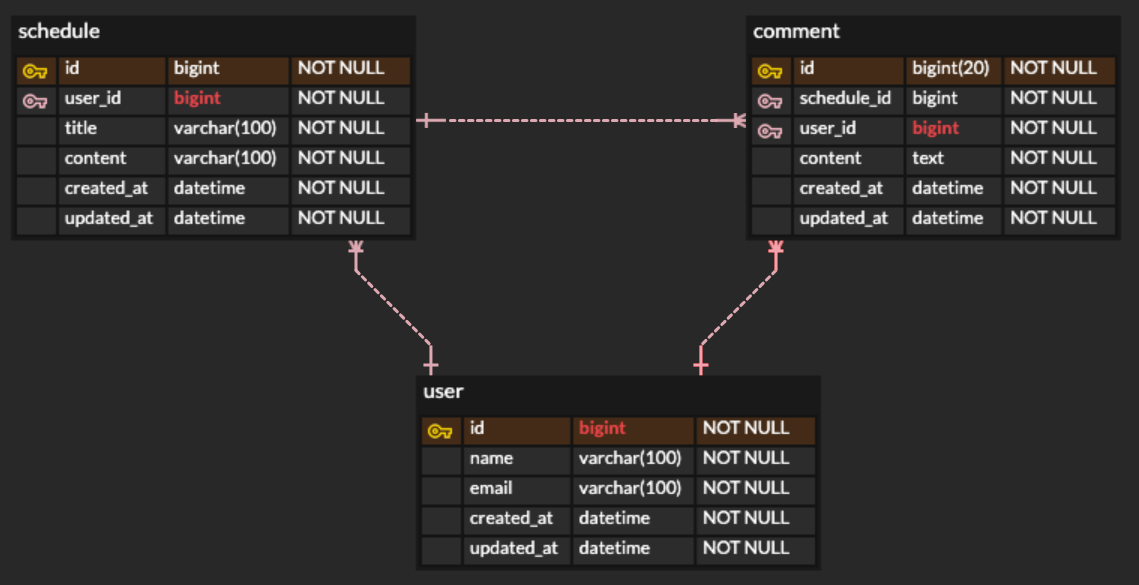
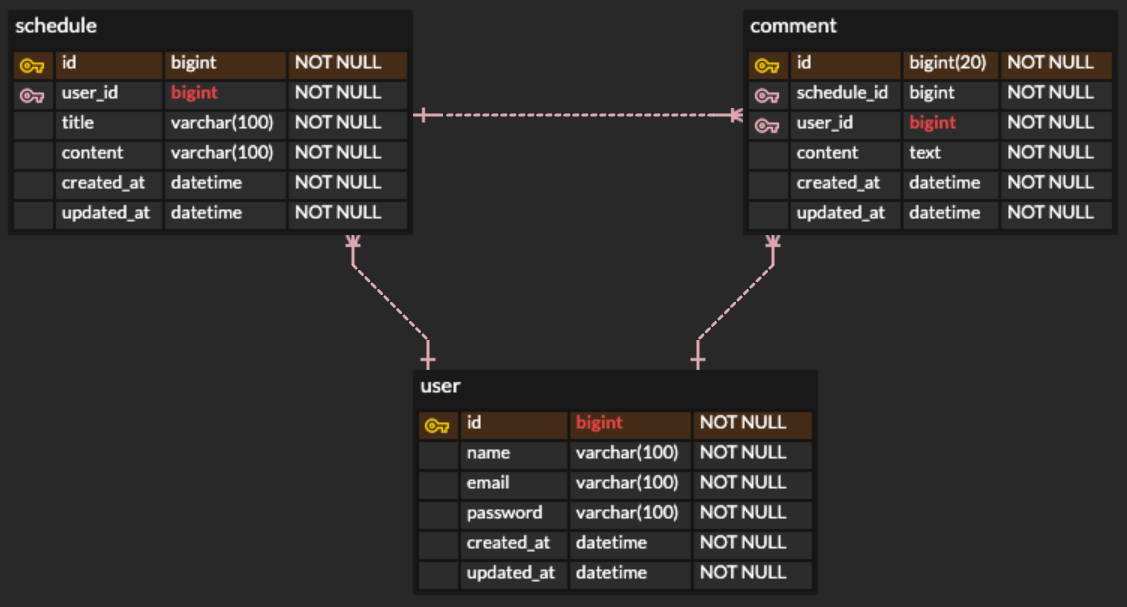
docs: API 명세 추가 및 ERD 업데이트

Changed region(s): [[0.0, 0.0308, 0.9938, 0.9538], [0.5901, 0.5846, 0.6211, 0.6462]]

diff --git a/README.md b/README.md
@@ -1,7 +1,145 @@
 
-## Architecture
-### ERD
+# Architecture
+## ERD
 [ERD Cloud Snapshot JSON](./erd-snapshot.json)
 
 ![img.png](img.png)
 
+## API Spec
+
+### 일정 목록 조회
+
+| 항목              | 내용               |
+| --------------- | ---------------- |
+| Method          | `GET`            |
+| URL             | `/schedules`     |
+| 설명              | 전체 일정 목록을 조회합니다. |
+| Request         | 없음               |
+| Response Status | `200 OK`         |
+
+#### Response
+
+```json
+[
+  {
+    "content": "string",
+    "createdBy": "string",
+    "title": "string",
+    "createdAt": "2013-08-13T01:53:32.467Z",
+    "updatedAt": "2012-11-20T23:02:58.020Z",
+    "comments": [
+      {
+        "content": "string",
+        "createdBy": "string",
+        "createdAt": "2026-03-27T08:38:52.241Z",
+        "updatedAt": "2016-06-02T04:22:53.281Z"
+      }
+    ]
+  }
+]
+```
+
+---
+
+### 일정 생성
+
+| 항목              | 내용             |
+| --------------- | -------------- |
+| Method          | `POST`         |
+| URL             | `/schedules`   |
+| 설명              | 새로운 일정을 생성합니다. |
+| Request         | 명세 없음          |
+| Response Status | `201 Created`  |
+
+#### Response
+
+```json
+{
+  "id": "할일 id",
+  "title": "할일 제목",
+  "content": "할일 내용"
+}
+```
+
+---
+
+### 일정 단건 조회
+
+| 항목              | 내용                |
+| --------------- | ----------------- |
+| Method          | `GET`             |
+| URL             | `/schedules/{id}` |
+| 설명              | 특정 일정 하나를 조회합니다.  |
+| Path Variable   | `id`              |
+| Request         | 없음                |
+| Response Status | `200 OK`          |
+
+#### Parameters
+
+| 이름   | 위치   | 필수 여부 | 타입     | 설명        |
+| ---- | ---- | ----- | ------ | --------- |
+| `id` | path | 필수    | string | 조회할 일정 ID |
+
+#### Response
+
+```json
+{
+  "id": 1,
+  "title": "본문 제목",
+  "content": "본문 내용"
+}
+```
+
+---
+
+### 일정 수정
+
+| 항목              | 내용                |
+| --------------- | ----------------- |
+| Method          | `PUT`             |
+| URL             | `/schedules/{id}` |
+| 설명              | 특정 일정을 수정합니다.     |
+| Path Variable   | `id`              |
+| Request         | 명세 없음             |
+| Response Status | `200 OK`          |
+
+#### Parameters
+
+| 이름   | 위치   | 필수 여부 | 타입     | 설명        |
+| ---- | ---- | ----- | ------ | --------- |
+| `id` | path | 필수    | string | 수정할 일정 ID |
+
+#### Response
+
+```json
+{
+  "id": 1,
+  "title": "본문 제목",
+  "content": "본문 내용"
+}
+```
+
+---
+
+### 일정 삭제
+
+| 항목              | 내용                |
+| --------------- | ----------------- |
+| Method          | `DELETE`          |
+| URL             | `/schedules/{id}` |
+| 설명              | 특정 일정을 삭제합니다.     |
+| Path Variable   | `id`              |
+| Request         | 없음                |
+| Response Status | `204 No Content`  |
+
+#### Parameters
+
+| 이름   | 위치   | 필수 여부 | 타입     | 설명        |
+| ---- | ---- | ----- | ------ | --------- |
+| `id` | path | 필수    | string | 삭제할 일정 ID |
+
+#### Response
+
+```text
+No Content
+```

diff --git a/TODO.md b/TODO.md
@@ -1,0 +1,123 @@
+
+### Lv 0. API 명세 및 ERD 작성   `필수`
+
+- [ ]  **API 명세서 작성하기**
+    - [ ]  API명세서는 프로젝트 root(최상위) 경로의 `README.md` 에 작성
+    - 참고) API 명세서 작성 가이드
+        - API 명세서란 API명, 요청 값(파라미터), 반환 값, 인증/인가 방식, 데이터 및 전달 형식 등 API를 정확하게 호출하고 그 결과를 명확하게 해석하는데 필요한 정보들을 일관된 형식으로 기술한 것을 의미합니다.
+        - request 및 response는 json(링크) 형태로 작성합니다.
+
+      [예) [서점] 책 API 설계하기](https://app.notion.com/e612dc3ef51483c29c3781125bebb679?pvs=21)
+
+        - 예시
+
+          !image.png
+
+
+        > API 명세서 추천 무료 Tool
+        > 
+        > 
+        > Document your APIs in Postman | Postman Learning Center
+        > 
+
+
+### Lv 1. 일정 CRUD  `필수`
+
+- [ ]  일정을 생성, 전체 조회, 단건 조회, 수정, 삭제할 수 있습니다.
+- [ ]  일정은 아래 필드를 가집니다.
+    - [ ]  `작성 유저명`, `할일 제목`, `할일 내용`, `작성일`, `수정일` 필드
+    - [ ]  `작성일`, `수정일` 필드는 `JPA Auditing`을 활용합니다.
+
+
+### Lv 2. 유저 CRUD  `필수`
+
+- [ ]  유저를 생성, 전체 조회, 단건 조회, 수정, 삭제할 수 있습니다.
+- [ ]  유저는 아래와 같은 필드를 가집니다.
+    - [ ]  `유저명`, `이메일`, `작성일`, `수정일` 필드
+    - [ ]  `작성일`, `수정일` 필드는 `JPA Auditing`을 활용합니다.
+- [ ]  연관관계 구현
+    - [ ]  일정은 이제 `작성 유저명` 필드 대신 `유저 고유 식별자` 필드를 가집니다.
+
+
+### Lv 3. 회원가입  `필수`
+
+- [ ]  유저에 `비밀번호` 필드를 추가합니다.
+    - 비밀번호는 8글자 이상이어야합니다.
+    - 비밀번호 암호화는 도전 기능에서 수행합니다.
+
+
+### Lv 4. 로그인(인증)  `필수`
+
+- [ ]  **설명**
+    - [ ]  **Cookie/Session**을 활용해 로그인 기능을 구현합니다.
+- [ ]  **조건**
+    - [ ]  `이메일`과 `비밀번호`를 활용해 로그인 기능을 구현합니다.
+    - [ ]  필요한 API들에서 세션을 활용합니다.
+
+---
+
+## 3️⃣ 도전 기능 가이드
+
+### Lv 5. 다양한 예외처리  `도전`
+
+- [ ]  Validation을 활용해 다양한 예외처리를 적용합니다.
+    - [ ]  @RestControllerAdvice를 활용하여 validation 에러 상황을 클라이언트에게 전달합니다.
+- [ ]  정해진 예외처리 항목이 있는 것이 아닌 프로젝트를 분석하고 예외사항을 지정해 봅니다.
+    - [ ]  Ex) 할일 제목은 10글자 이내, 유저명은 4글자 이내
+
+### Lv 6. 비밀번호 암호화  `도전`
+
+- [ ]  Lv.3에서 추가한 `비밀번호` 필드에 들어가는 비밀번호를 암호화합니다.
+    - [ ]  암호화를 위한 `PasswordEncoder`를 직접 만들어 사용합니다.
+        - PasswordEncoder 참고 코드
+            1. `build.gradle` 에 아래의 의존성을 추가해주세요.
+
+                ```java
+                implementation 'at.favre.lib:bcrypt:0.10.2'
+                ```
+
+            2. `config` 패키지가 없다면 추가하고, 아래의 클래스를 추가해주세요.
+
+                ```java
+                import at.favre.lib.crypto.bcrypt.BCrypt;
+                import org.springframework.stereotype.Component;
+                
+                @Component
+                public class PasswordEncoder {
+                
+                    public String encode(String rawPassword) {
+                        return BCrypt.withDefaults().hashToString(BCrypt.MIN_COST, rawPassword.toCharArray());
+                    }
+                
+                    public boolean matches(String rawPassword, String encodedPassword) {
+                        BCrypt.Result result = BCrypt.verifyer().verify(rawPassword.toCharArray(), encodedPassword);
+                        return result.verified;
+                    }
+                }
+                ```
+
+
+
+### Lv 7. 댓글 CRUD  `도전`
+
+- [ ]  생성한 일정에 댓글을 남길 수 있습니다.
+    - [ ]  댓글과 일정은 연관 관계를 가집니다. →  `3주차 연관관계 매핑 참고!`
+- [ ]  댓글을 저장, 전체 조회할 수 있습니다.
+- [ ]  댓글은 아래와 같은 필드를 가집니다.
+    - [ ]  `댓글 내용`, `작성일`, `수정일`, `유저 고유 식별자`, `일정 고유 식별자` 필드
+    - [ ]  `작성일`, `수정일` 필드는 `JPA Auditing`을 활용하여 적용합니다.
+
+
+### Lv 8. 일정 페이징 조회  `도전`
+
+- 키워드
+    - **데이터베이스**
+        - offset / limit : SELECT 쿼리에 적용해서 데이터를 제한 범위에 맞게 조회할 수 있습니다.
+    - **페이징**
+        - Pageable : Spring Data JPA에서 제공되는 페이징 관련 인터페이스입니다.
+        - PageRequest : Spring Data JPA에서 제공되는 페이지 요청 관련 클래스입니다.
+- [ ]  일정을 Spring Data JPA의 `Pageable`과 `Page` 인터페이스를 활용하여 페이지네이션을 구현
+    - [ ]  `페이지 번호`와 `페이지 크기`를 쿼리 파라미터로 전달하여 요청하는 항목을 나타냅니다.
+    - [ ]  `할일 제목`, `할일 내용`, `댓글 개수`, `일정 작성일`, `일정 수정일`, `일정 작성 유저명` 필드를 조회합니다.
+    - [ ]  디폴트 `페이지 크기`는 10으로 적용합니다.
+- [ ]  일정의 `수정일`을 기준으로 내림차순 정렬합니다.